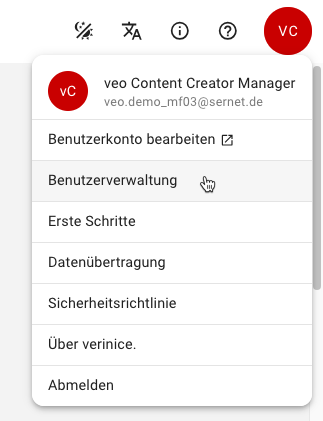
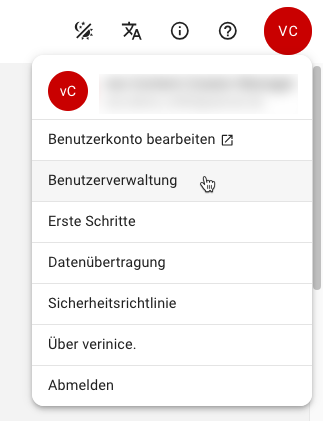
Finalize account management
verinice-veo#2989

Changed region(s): [[0.3096, 0.1544, 0.9288, 0.2779]]

diff --git a/manual/accounts.md b/manual/accounts.md
@@ -2,6 +2,43 @@
 
 ## Benutzerkonto bearbeiten
 
+Über den Account Button gelangen Sie zum Bearbeiten Ihres Benutzerkontos:
+
+![Benutzerkonto bearbeiten](/assets/manual/account.de.png)
+
+verinice verwendet für das Identitäts- und Zugriffsmanagement eine [Keycloak](https://www.keycloak.org/)-Instanz, die in einem neuen Browsertab geöffnet wird:
+
+![Benutzerkonto bearbeiten](/assets/manual/account_management.de.png)
+
+### Persönliche Informationen
+
+Im Abschnitt Persönliche Informationen können Sie Ihren Namen oder die E-Mail ändern. Nach Änderung der E-Mail erhalten Sie zum Verifizieren der E-Mail-Adresse eine Nachricht mit der Aufforderung ein neues Passwort zu vergeben.
+
+![Persönliche Daten](/assets/manual/account_profile.de.png)
+
+### Authentifizierungsmethode
+
+Im Abschnitt Kontosicherheit > Anmeldung wählen Sie zwischen der Standardauthentifizierung per Passwort oder der Zwei-Faktor Authentifizierung und richten diese ein:
+
+![Persönliche Daten](/assets/manual/account_authentification.de.png)
+
+### Geräteaktivität
+
+Unter Kontosicherheit > Geräteaktivität erkennen Sie angemeldete Geräte und können unbekannte Geräte ggfs. abmelden:
+
+![Benutzerkonto bearbeiten](/assets/manual/account_activity.de.png)
+
+### Anwendungen verwalten
+
+Im Abschnitt Applikationen sehen Sie, mit welchen Clients/Anwendungen Sie auf verinice zugreifen. Da die Anzahl der zugreifenden Anwendungen begrenzt ist, werden Sie unter Umständen automatisch abgemeldet, z.B. wenn Sie verinice in verschiedenen Browsern gleichzeitig öffnen.
+
+![Benutzerkonto bearbeiten](/assets/manual/account_applications.de.png)
+
+### Ressourcen
+
+::: info Zusätzlich Funktionen wie z.B. das Teilen von Ressourcen werden aktuell nicht unterstützt!
+:::
+
 ## Benutzerverwaltung
 
 ::: details Warum steht mir die Benutzerverwaltung nicht zur Verfügung?
@@ -36,3 +73,6 @@ Beim Erstellen eines Benutzers geben Sie die erforderlichen Daten ein:
 1. Nach Erstellen wird eine E-Mail an den Benutzer versandt, um die E-Mail Adresse zu verifizieren. Der Benutzer vergibt nach Aufruf des Links ein sicheres Passwort, mit dem er sich anschließend in verinice anmelden kann:
 
 ![E-Mail](/assets/manual/accounts_email.de.png)
+
+::: info Wir empfehlen neue Benutzer vorab über die Anlage ihres verinice Accounts zu informieren!
+:::
